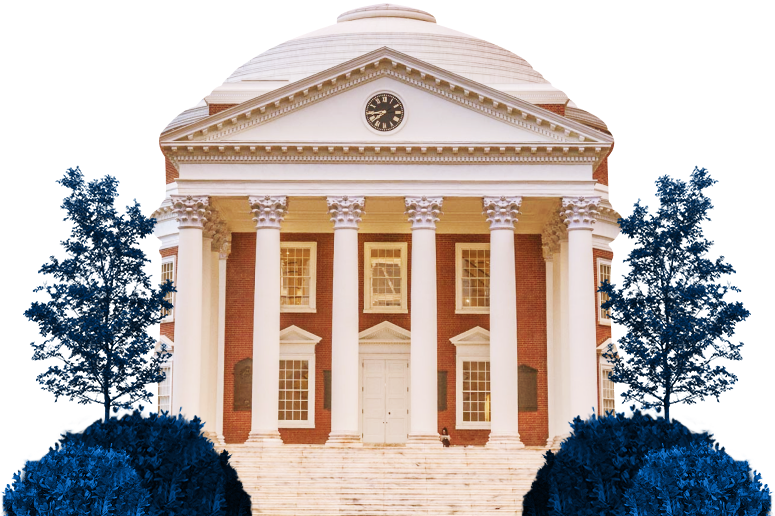
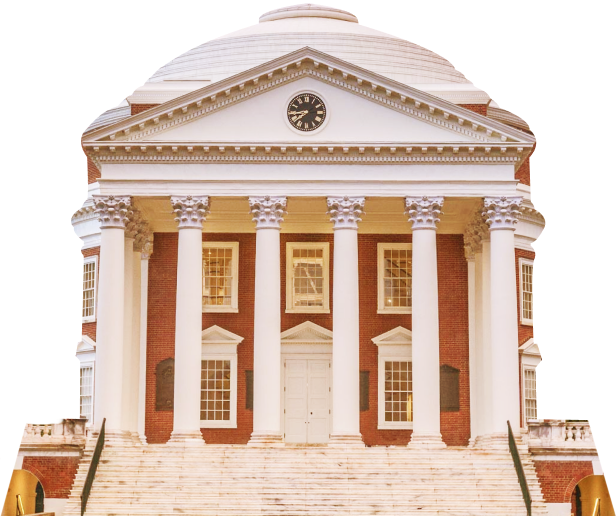
Add changes to cover photo

diff --git a/src/components/Landing/TopSection.js b/src/components/Landing/TopSection.js
@@ -41,7 +41,16 @@ const TopSection = () => {
             title
             description
             mainimage {
-              background_image {
+              background_image_mobile {
+                childImageSharp {
+                  fluid {
+                    ...GatsbyImageSharpFluid_noBase64
+                  }
+                }
+              }
+            }
+            mainimage {
+              background_image_desktop {
                 childImageSharp {
                   fluid {
                     ...GatsbyImageSharpFluid_noBase64
@@ -67,7 +76,7 @@ const TopSection = () => {
                 }
               }
             }
-            image {
+            profile_image {
               childImageSharp {
                 fluid {
                   ...GatsbyImageSharpFluid_noBase64
@@ -194,7 +203,7 @@ const TopSection = () => {
         <Img
           className="big-image"
           fluid={
-            queryResults.markdownRemark.frontmatter.mainimage.background_image
+            queryResults.markdownRemark.frontmatter.mainimage.background_image_mobile
               .childImageSharp.fluid
           }
           alt="TopSection"
@@ -207,7 +216,7 @@ const TopSection = () => {
           <div
             onClick={() =>
               openModal(
-                queryResults.markdownRemark.frontmatter.image.childImageSharp
+                queryResults.markdownRemark.frontmatter.profile_image.childImageSharp
                   .fluid
               )
             }
@@ -215,7 +224,7 @@ const TopSection = () => {
             <Img
               className="profile-img-mobile"
               fluid={
-                queryResults.markdownRemark.frontmatter.image.childImageSharp
+                queryResults.markdownRemark.frontmatter.profile_image.childImageSharp
                   .fluid
               }
               alt="TopSection"
@@ -227,7 +236,7 @@ const TopSection = () => {
             <div
               onClick={() =>
                 openModal(
-                  queryResults.markdownRemark.frontmatter.image.childImageSharp
+                  queryResults.markdownRemark.frontmatter.profile_image.childImageSharp
                     .fluid
                 )
               }
@@ -236,7 +245,7 @@ const TopSection = () => {
                 className="profile-img-desktop"
                 id="desktop"
                 fluid={
-                  queryResults.markdownRemark.frontmatter.image.childImageSharp
+                  queryResults.markdownRemark.frontmatter.profile_image.childImageSharp
                     .fluid
                 }
                 alt="TopSection"

diff --git a/src/components/common/css/topsection.scss b/src/components/common/css/topsection.scss
@@ -116,6 +116,7 @@
   border-radius: 50%;
   border: 2px solid #b4f6ff;
   animation: zoomInDown 1s;
+  opacity: 0.2;
 }
 
 #rectangle1.decorator {
@@ -162,6 +163,7 @@
   border: 2px solid #b4f6ff;
   transform: rotate(45deg);
   animation: zoomInDown 1s;
+  opacity: 0.2;
 }
 
 #triangle1.decorator {
@@ -209,6 +211,7 @@
   border: 2px solid #b4f6ff;
   transform: rotate(45deg);
   animation: zoomInDown 1s;
+  opacity: 0.2;
 }
 
 @media screen and (min-width: $tablet-landscape) {

diff --git a/src/pages/landing/topsection.md b/src/pages/landing/topsection.md
@@ -1,10 +1,11 @@
 ---
 mainimage:
-  background-image: /img/rotunda.png
-  mini-image-1: /img/miniimage1-1-.jpg
-  mini-image-2: /img/miniimage1-2-.jpg
+  background_image_mobile: /img/rotunda-mobile.png
+  background_image_desktop: /img/rotunda-desktop.png
+  mini_image_1: /img/miniimage1-1-.jpg
+  mini_image_2: /img/miniimage1-2-.jpg
 title: uvalphie
-image: /img/bros.jpg
+profile_image: /img/bros.jpg
 description: |-
   The Gentleman's Chapter
   University of Virginia
